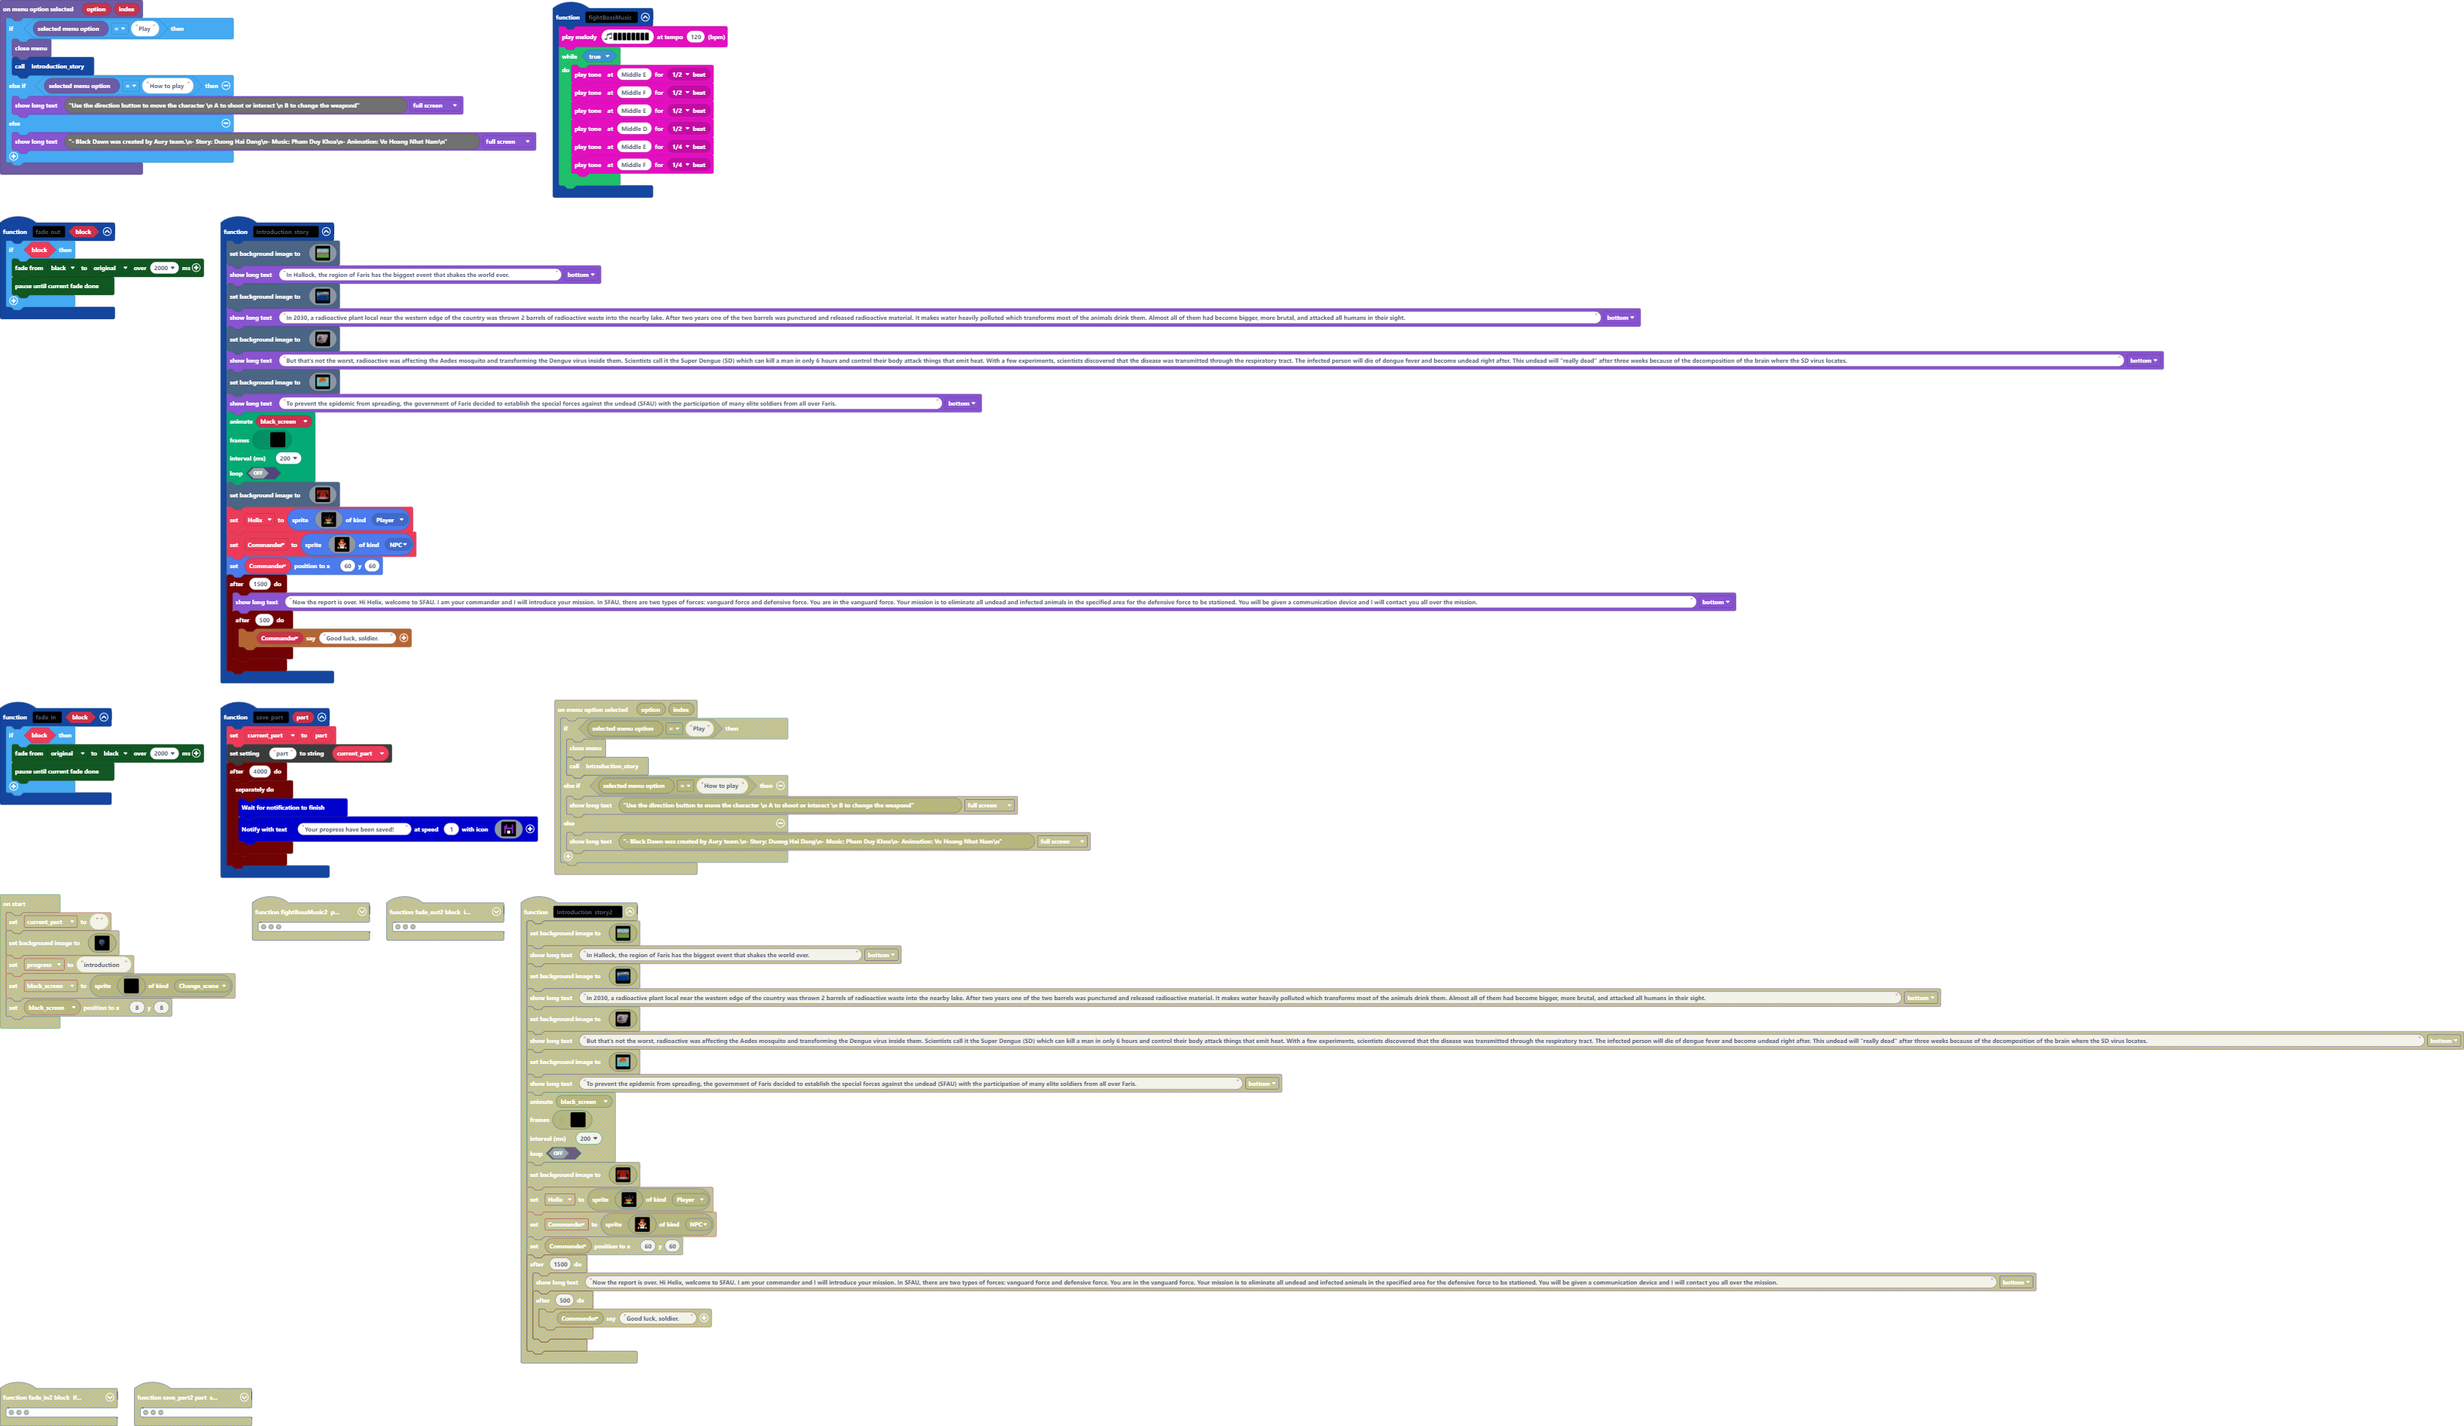
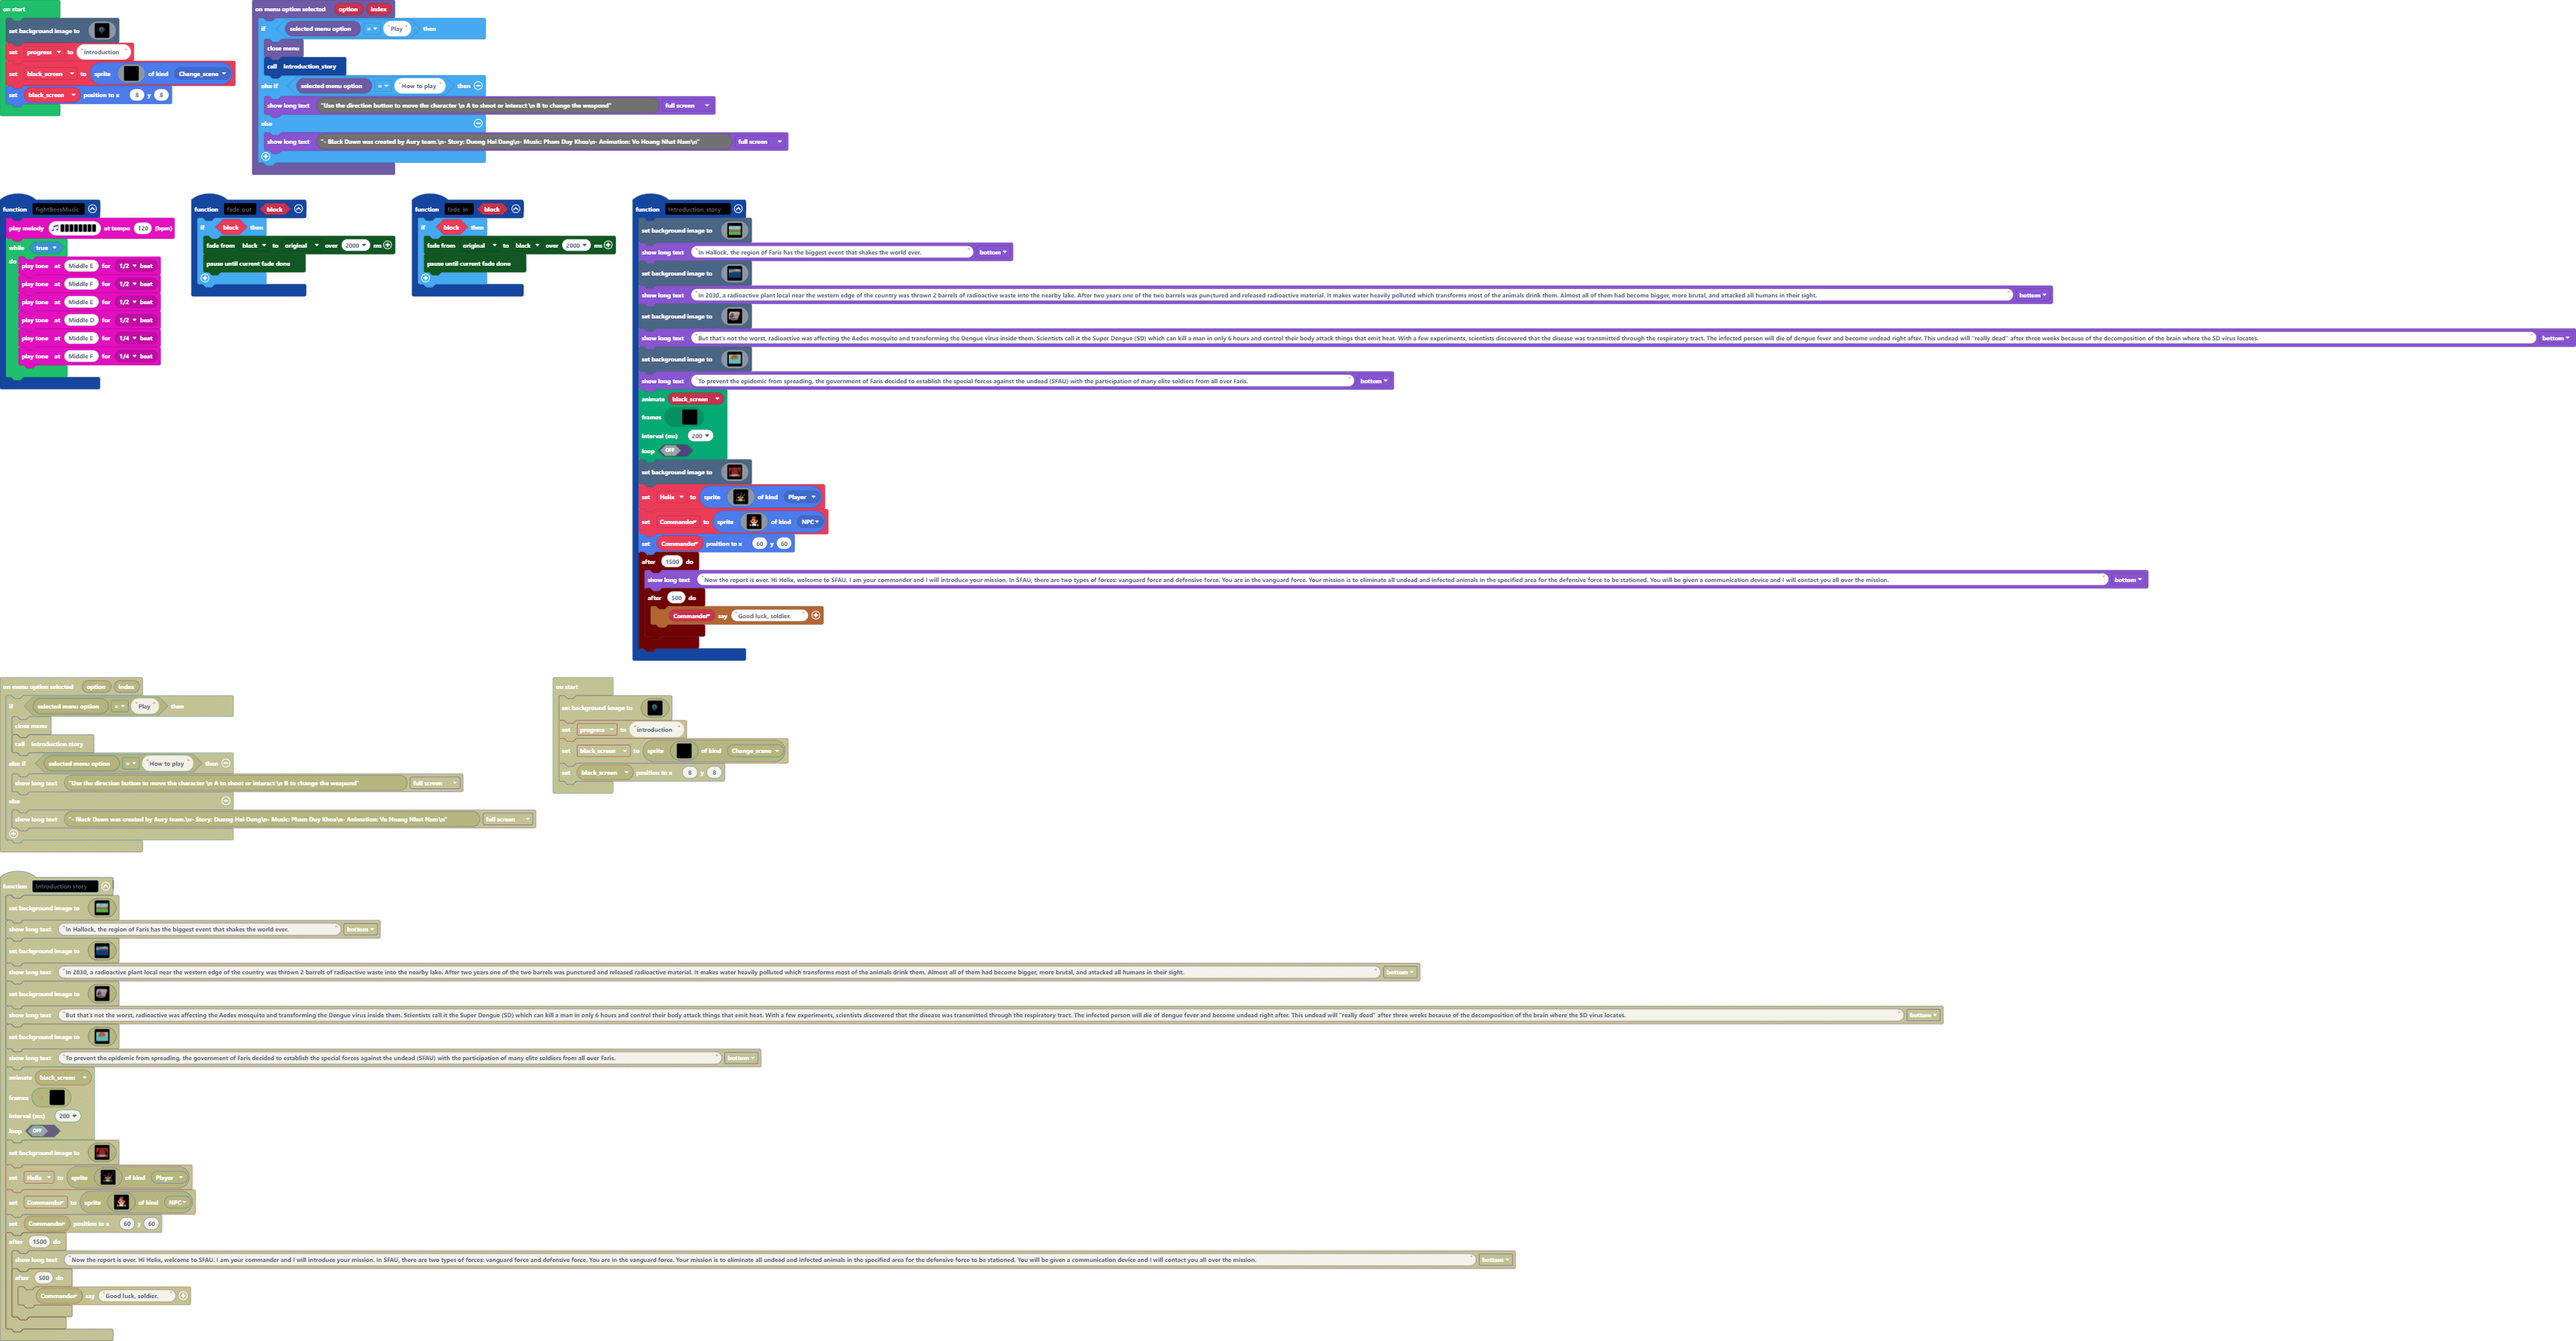
Restore '00:45:42, 19/5/2022 add fade_in, fade_out, fightBossMusic'

Changed region(s): [[0.0, 0.0, 1.0, 1.0], [0.8103, 0.4015, 0.8414, 0.4632]]

diff --git a/main.ts b/main.ts
@@ -700,16 +700,6 @@ function Introduction_story () {
         })
     })
 }
-function save_part (part: string) {
-    current_part = part
-    blockSettings.writeString("part", current_part)
-    timer.after(4000, function () {
-        timer.background(function () {
-            Notification.waitForNotificationFinish()
-            Notification.notify("Your propress have been saved!", 1, assets.image`floppy_disc`)
-        })
-    })
-}
 blockMenu.onMenuOptionSelected(function (option, index) {
     if (blockMenu.selectedMenuOption() == "Play") {
         blockMenu.closeMenu()
@@ -722,9 +712,8 @@ blockMenu.onMenuOptionSelected(function (option, index) {
 })
 let Commander: Sprite = null
 let Helix: Sprite = null
-let progress = ""
 let black_screen: Sprite = null
-let current_part = ""
+let progress = ""
 scene.setBackgroundImage(img`
     ffffffffffffffffffffffffffffffffffffffffffffffffffffffffffffffffffffffffffffffffffffffffffffffffffffffffffffffffffffffffffffffffffffffffffffffffffffffffffffffff
     ffffffffffffffffffffffffffffffffffffffffffffffffffffffffffffffffffffffffffffffffffffffffffffffffffffffffffffffffffffffffffffffffffffffffffffffffffffffffffffffff
@@ -815,16 +804,16 @@ scene.setBackgroundImage(img`
     ffffffffffffffffffffffffffffffffffffffffffffffffffffffffffffffffffffffffffffffffffffffffffffffffffffffffffffffffffffffffffffffffffffffffffffffffffffffffffffffff
     ffffffffffffffffffffffffffffffffffffffffffffffffffffffffffffffffffffffffffffffffffffffffffffffffffffffffffffffffffffffffffffffffffffffffffffffffffffffffffffffff
     ffffffffffffffffffffffffffffffffffffffffffffffffffffffffffffffffffffffffffffffffffffffffffffffffffffffffffffffffffffffffffffffffffffffffffffffffffffffffffffffff
[5 lines of base64/hex data omitted]
     ffffffffffffffffffffffffffffffffffffffffffffffffffffffffffffffffffffffffffffffffffffffffffffffffffffffffffffffffffffffffffffffffffffffffffffffffffffffffffffffff
     ffffffffffffffffffffffffffffffffffffffffffffffffffffffffffffffffffffffffffffffffffffffffffffffffffffffffffffffffffffffffffffffffffffffffffffffffffffffffffffffff
     ffffffffffffffffffffffffffffffffffffffffffffffffffffffffffffffffffffffffffffffffffffffffffffffffffffffffffffffffffffffffffffffffffffffffffffffffffffffffffffffff
     ffffffffffffffffffffffffffffffffffffffffffffffffffffffffffffffffffffffffffffffffffffffffffffffffffffffffffffffffffffffffffffffffffffffffffffffffffffffffffffffff
-    ffffffffffffffffffffffffffffffffffffffffffffffffffffffffffffffffffffffffffffffffffffffffffffffffffffffffffffffffffffffffffffffffffffffffffffffffffffffffffffffff
[6 lines of base64/hex data omitted]
     ffffffffffffffffffffffffffffffffffffffffffffffffffffffffffffffffffffffffffffffffffffffffffffffffffffffffffffffffffffffffffffffffffffffffffffffffffffffffffffffff
     ffffffffffffffffffffffffffffffffffffffffffffffffffffffffffffffffffffffffffffffffffffffffffffffffffffffffffffffffffffffffffffffffffffffffffffffffffffffffffffffff
     ffffffffffffffffffffffffffffffffffffffffffffffffffffffffffffffffffffffffffffffffffffffffffffffffffffffffffffffffffffffffffffffffffffffffffffffffffffffffffffffff
@@ -847,7 +836,7 @@ scene.setBackgroundImage(img`
     ffffffffffffffffffffffffffffffffffffffffffffffffffffffffffffffffffffffffffffffffffffffffffffffffffffffffffffffffffffffffffffffffffffffffffffffffffffffffffffffff
     ffffffffffffffffffffffffffffffffffffffffffffffffffffffffffffffffffffffffffffffffffffffffffffffffffffffffffffffffffffffffffffffffffffffffffffffffffffffffffffffff
     `)
-current_part = ""
+progress = "introduction"
 black_screen = sprites.create(img`
     . . . . . . . . . . . . . . . . 
     . . . . . . . . . . . . . . . . 
@@ -867,4 +856,3 @@ black_screen = sprites.create(img`
     . . . . . . . . . . . . . . . . 
     `, SpriteKind.Change_scene)
 black_screen.setPosition(8, 8)
-progress = "introduction"

diff --git a/images.g.ts b/images.g.ts
@@ -3,36 +3,7 @@ namespace myImages {
 
     helpers._registerFactory("image", function(name: string) {
         switch(helpers.stringTrim(name)) {
-            case "image1":
-            case "floppy_disc":return img`
-. . f f f f f f 
-. f a f f f a f 
-f a a f f f a f 
-f a a a a a a f 
-f a f f f f a f 
-f a f 1 1 f a f 
-f a f 1 1 f a f 
-f f f f f f f f 
-`;
-            case "image2":
-            case "myImage":return img`
-. . . . . . . . . . . . . . . . 
-. . . . . . . . . . . . . . . . 
-. . . . . . . . . . . . . . . . 
-. . . . . . . . . . . . . . . . 
-. . . . . . . . . . . . . . . . 
-. . . . . . . . . . . . . . . . 
-. . . . . . . . . . . . . . . . 
-. . . . . . . . . . . . . . . . 
-. . . . . . . . . . . . . . . . 
-. . . . . . . . . . . . . . . . 
-. . . . . . . . . . . . . . . . 
-. . . . . . . . . . . . . . . . 
-. . . . . . . . . . . . . . . . 
-. . . . . . . . . . . . . . . . 
-. . . . . . . . . . . . . . . . 
-. . . . . . . . . . . . . . . . 
-`;
+
         }
         return null;
     })
